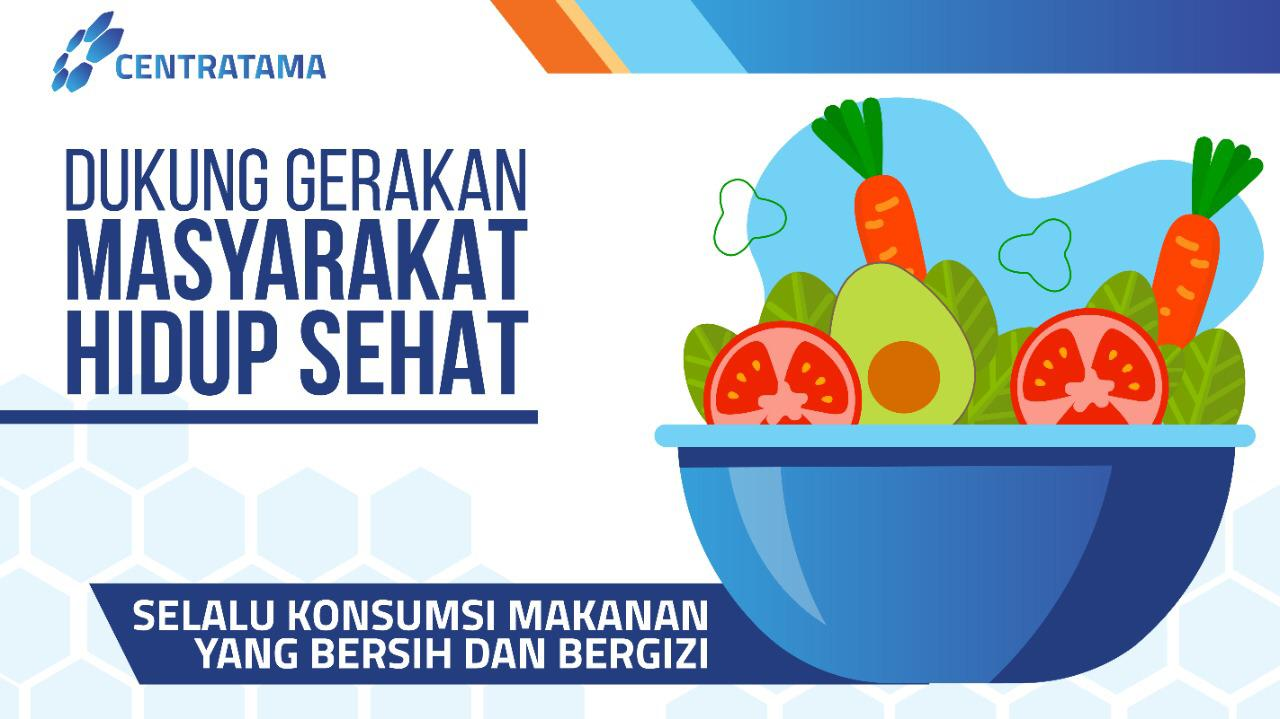
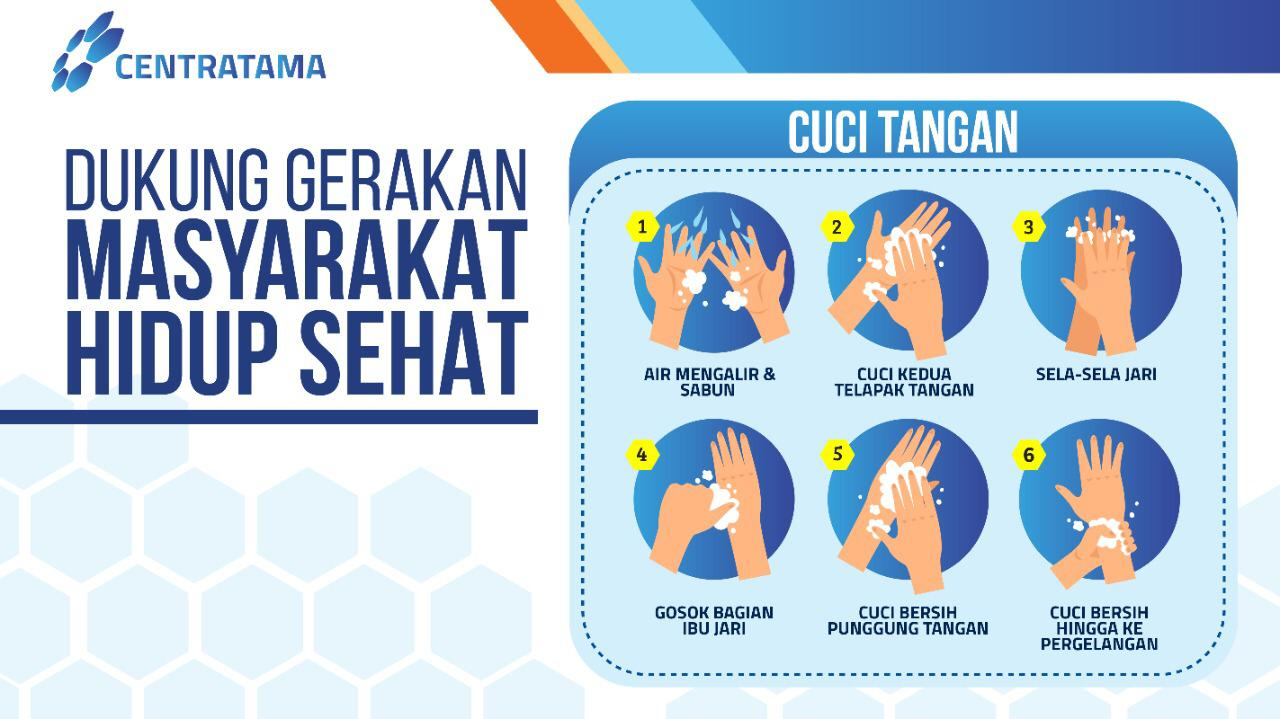
fix some typos
- add banner
- fix some bugs
- wording enchancement
- new checkbox validation using javascript

diff --git a/assets/css/healthreport_report_styles.css b/assets/css/healthreport_report_styles.css
@@ -1,0 +1,6 @@
+th{
+    font-size: 15px;
+}
+td{
+    font-size: 14px;
+}

diff --git a/application/views/healthreport/healthStatus_healthReport_v.php b/application/views/healthreport/healthStatus_healthReport_v.php
@@ -5,16 +5,29 @@
                 <li data-target="#healthCarousel" data-slide-to="0" class="active"></li>
                 <li data-target="#healthCarousel" data-slide-to="1"></li>
                 <li data-target="#healthCarousel" data-slide-to="2"></li>
+                <li data-target="#healthCarousel" data-slide-to="3"></li>
+                <li data-target="#healthCarousel" data-slide-to="4"></li>
+                <li data-target="#healthCarousel" data-slide-to="5"></li>
+                <li data-target="#healthCarousel" data-slide-to="6"></li>
             </ol>
             <div class="carousel-inner">
                 <div class="carousel-item active">
                     <img src="<?= base_url('assets/img/healthReport/banners/'); ?>1.jpeg" class="d-block w-100" alt="Gerakan hidup sehat">
                 </div>
                 <div class="carousel-item">
-                    <img src="<?= base_url('assets/img/healthReport/banners/'); ?>2.jpeg" class="d-block w-100" alt="Konsumsi makanan">
+                    <img src="<?= base_url('assets/img/healthReport/banners/'); ?>2.jpeg" class="d-block w-100" alt="Cuci Tangan">
                 </div>
                 <div class="carousel-item">
-                    <img src="<?= base_url('assets/img/healthReport/banners/'); ?>3.jpeg" class="d-block w-100" alt="Jaga jarak">
+                    <img src="<?= base_url('assets/img/healthReport/banners/'); ?>3.jpeg" class="d-block w-100" alt="Gunakan Siku saat batuk">
+                </div>
+                <div class="carousel-item">
+                    <img src="<?= base_url('assets/img/healthReport/banners/'); ?>4.jpeg" class="d-block w-100" alt="Pakai masker">
+                </div>
+                <div class="carousel-item">
+                    <img src="<?= base_url('assets/img/healthReport/banners/'); ?>5.jpeg" class="d-block w-100" alt="Makan makanan sehat">
+                </div>
+                <div class="carousel-item">
+                    <img src="<?= base_url('assets/img/healthReport/banners/'); ?>6.jpeg" class="d-block w-100" alt="Jaga jarak">
                 </div>
             </div>
             <a class="carousel-control-prev" href="#healthCarousel" role="button" data-slide="prev">
@@ -30,7 +43,7 @@
     <div class="col-md-4 mt-2">
         <div class="card card-danger card-outline">
             <div class="card-header">
-                <p class="card-title">How are you today?</p>
+                <p class="card-title">Are you healthy today?</p>
             </div>
             <div class="card-body">
                 <div class="row">
@@ -89,7 +102,7 @@
      /*                                   MODALS                                   */
      /* -------------------------------------------------------------------------- */ -->
 <!-- Modal Healthy -->
-<div class="modal fade" id="modal_healthy" tabindex="-1" role="dialog" aria-labelledby="modal_healthyLabel" aria-hidden="true">
+<!-- <div class="modal fade" id="modal_healthy" tabindex="-1" role="dialog" aria-labelledby="modal_healthyLabel" aria-hidden="true">
     <div class="modal-dialog">
         <div class="modal-content">
             <div class="modal-header">
@@ -115,7 +128,7 @@
             </div>
         </div>
     </div>
-</div>
+</div> -->
 
 <!-- Modal Sick -->
 <div class="modal fade" id="modal_sick" tabindex="-1" role="dialog" aria-labelledby="modal_sickLabel" aria-hidden="true">
@@ -128,6 +141,11 @@
                 </button>
             </div>
             <div class="modal-body">
+                <div class="row">
+                    <div class="col">
+                        <p class="text-center text-danger m-0">Please choose your sick category.</p>
+                    </div>
+                </div>
                 <form id="checkInSick" role="form" action="<?= base_url('healthReport/submitCheckIn'); ?>" method="POST">
                     <input type="hidden" name="checkIn" value="0">
                     <!-- checkbox kategori sakit -->

diff --git a/application/views/_komponen/healthreport/script_index_healthreport.php b/application/views/_komponen/healthreport/script_index_healthreport.php
@@ -1,19 +1,19 @@
 <!-- time script -->
 <script>
 function startTime() {
-  var today = new Date();
-  var h = today.getHours();
-  var m = today.getMinutes();
-  var s = today.getSeconds();
-  m = checkTime(m);
-  s = checkTime(s);
-  document.getElementById('checkTime').innerHTML =
-  h + ":" + m + ":" + s;
-  var t = setTimeout(startTime, 500);
+	var today = new Date();
+	var h = today.getHours();
+	var m = today.getMinutes();
+	var s = today.getSeconds();
+	m = checkTime(m);
+	s = checkTime(s);
+	document.getElementById('checkTime').innerHTML =
+	h + ":" + m + ":" + s;
+	var t = setTimeout(startTime, 500);
 }
 function checkTime(i) {
-  if (i < 10) {i = "0" + i};  // add zero in front of numbers < 10
-  return i;
+	if (i < 10) {i = "0" + i};  // add zero in front of numbers < 10
+	return i;
 }
 
 $(document).ready(() => startTime());
@@ -22,38 +22,78 @@ $(document).ready(() => startTime());
 <!-- validation -->
 <script>
 $('#checkInSick').validate({
-  rules: {
-    notes: {
-      required: true,
-      minlength: 5
-    }
-  },
-  messages: {
-    notes: {
-      required: "Please enter the Notes.",
-      minlength: "Your Notes must be at least 5 characters long."
-    }
-  },
-  errorElement: 'span',
-  errorClass: 'text-right pr-2',
-  errorPlacement: function (error, element) {
-    error.addClass('invalid-feedback');
-    element.closest('.form-group').append(error);
-  },
-  highlight: function (element, errorClass, validClass) {
-    $(element).addClass('is-invalid');
-  },
-  unhighlight: function (element, errorClass, validClass) {
-    $(element).removeClass('is-invalid');
-  }
+	rules: {
+		notes: {
+			required: true,
+			minlength: 5
+		}
+	},
+	messages: {
+		notes: {
+			required: "Please enter the Notes.",
+			minlength: "Your Notes must be at least 5 characters long."
+		}
+	},
+	errorElement: 'span',
+	errorClass: 'text-right pr-2',
+	errorPlacement: function (error, element) {
+		error.addClass('invalid-feedback');
+		element.closest('.form-group').append(error);
+	},
+	highlight: function (element, errorClass, validClass) {
+		$(element).addClass('is-invalid');
+	},
+	unhighlight: function (element, errorClass, validClass) {
+		$(element).removeClass('is-invalid');
+	}
 });
 
 // form Other sickness trigger
 $('input[name="lainnyaTrigger"]').on('change', () => {
-  if($('input[name="lainnyaTrigger"]').prop("checked") == true) {
-    $('#othersForm').fadeIn();
-  } else if($('input[name="lainnyaTrigger"]').prop("checked") == false) {
-    $('#othersForm').fadeOut();
-  }
-})
+	if($('input[name="lainnyaTrigger"]').prop("checked") == true) {
+		$('#othersForm').fadeIn();
+	} else if($('input[name="lainnyaTrigger"]').prop("checked") == false) {
+		$('#othersForm').fadeOut();
+	}
+});
+
+// Validator for Checkbox with different name
+
+function onSubmit() {
+	var fields = $("input[type='checkbox']").serializeArray(); 
+	if (fields.length == 0) { 
+		// tampilkan pesan error
+		Swal.fire({
+			icon: 'error',
+			title: 'Error',
+			text: 'Please choose your sick category!'
+		});
+		
+		// cancel submit
+		return false;
+	}
+
+	// cek jika checkbox lainnya dicek
+	if($('input[name="lainnyaTrigger"]').prop("checked") == true){
+		// cek kotak boxnya
+		if($('input[name="lainnya"]').val() == ""){
+			Swal.fire({
+				icon: 'error',
+				title: 'Error',
+				text: 'Other Sick input form is empty!'
+			});
+			
+			// cancel submit
+			return false;
+		}
+	}
+	// else 
+	// { 
+	//   alert(fields.length + " items selected"); 
+	// }
+}
+// register event on form, not submit button
+$('#checkInSick').submit(onSubmit);
+
+// src: https://jsfiddle.net/p8y2e59c/
 </script>

diff --git a/application/controllers/HealthReport.php b/application/controllers/HealthReport.php
@@ -4,6 +4,15 @@ defined('BASEPATH') OR exit('No direct script access allowed');
 
 class HealthReport extends MainController {
 
+    
+    public function __construct()
+    {
+        parent::__construct();
+        // load library
+        $this->load->library('form_validation');
+    }
+    
+
     public function index()
     {
         redirect('healthReport/healthStatus'); // redirect ke healthStatus
@@ -100,7 +109,7 @@ class HealthReport extends MainController {
 		$data['load_view'] = 'healthreport/report_healthReport_v';
 		// additional styles and custom script
         $data['additional_styles'] = array('plugins/datatables/styles_datatables');
-		// $data['custom_styles'] = array();
+		$data['custom_styles'] = array('healthreport_report_styles');
         $data['custom_script'] = array(
             'plugins/datatables/script_datatables', 
             'plugins/chartjs/script_chartjs.php', 
@@ -158,6 +167,20 @@ class HealthReport extends MainController {
                         'icon' => 'error',
                         'title' => 'Failed Checkin',
                         'msg' => 'Please choose at least one of your sickness or type on other.'
+                    )
+                );
+                redirect('healthReport/healthStatus');
+            }
+
+
+            $this->form_validation->set_rules('notes', 'Notes', 'required');
+            if ($this->form_validation->run() == FALSE){
+                 // set notifikasi swal
+                 $this->session->set_flashdata('msg_swal',
+                    array(
+                        'icon'  => 'error',
+                        'title' => 'Failed Checkin',
+                        'msg'   => 'Please write your sick notes.'
                     )
                 );
                 redirect('healthReport/healthStatus');
@@ -270,11 +293,11 @@ class HealthReport extends MainController {
                 foreach($sickness as $key => $value){
                     // ambil info kategori sakit terdaftar
                     if($value['name'] != 'lainnya'){
-                        $what_sickness = $this->_general_m->getOnce('name', 'healthReport_category', array('input_name' => $value['name']))['name'];
+                        $what_sickness = $this->_general_m->getOnce('name', 'healthReport_category', array('input_name' => $value['name']));
                     }
                     // untuk nama kategori sakit yang terdaftar
-                    if(!empty($value['status']) && $value['name'] != 'lainnya'){
-                        $sicked[$x] = $what_sickness;
+                    if(!empty($value['status']) && $value['name'] != 'lainnya' && !empty($what_sickness)){
+                        $sicked[$x] = $what_sickness['name'];
                         $x++;
 
                         // counter jenis sakit

diff --git a/application/views/healthreport/report_healthReport_v.php b/application/views/healthreport/report_healthReport_v.php
@@ -31,7 +31,7 @@
                         </div>
                         <div class="col-lg-4 col-sm-6">
                             <div class="form-group">
-                                <label for="departement">Departement:</label>
+                                <label for="departement">Department:</label>
                                 <select id="departement" class="custom-select form-control form-control-sm">
                                     <option value="">All</option>
                                     <?php foreach($dept as $v): ?>
@@ -94,20 +94,24 @@
                                 </div>
                             </div>
                         </div><!-- /Table Toolbox -->
-                        <!-- Tabel -->
-                        <table id="report_healthCheckIn" class="table table-bordered table-striped">
-                            <thead>
-                                <tr>
-                                    <th>Date</th>
-                                    <th>Name</th>
-                                    <th>Department</th>
-                                    <th>Division</th>
-                                    <th>Health Status</th>
-                                    <th>Sick Type</th>
-                                    <th>Notes</th>
-                                </tr>
-                            </thead>
-                        </table><!-- /Tabel -->
+                        <div class="row">
+                            <div class="col table-responsive">
+                                <!-- Tabel -->
+                                <table id="report_healthCheckIn" class="table table-bordered table-striped">
+                                    <thead>
+                                        <tr>
+                                            <th>Date</th>
+                                            <th>Name</th>
+                                            <th>Department</th>
+                                            <th>Division</th>
+                                            <th>Health Status</th>
+                                            <th>Sick Type</th>
+                                            <th>Notes</th>
+                                        </tr>
+                                    </thead>
+                                </table><!-- /Tabel -->
+                            </div>
+                        </div>
                     </div>
                 </div>
             </div>

diff --git a/application/controllers/Profile.php b/application/controllers/Profile.php
@@ -1,5 +1,5 @@
 <?php
-
+// TODO tambahkan server side validation
 defined('BASEPATH') OR exit('No direct script access allowed');
 
 class Profile extends MainController {
